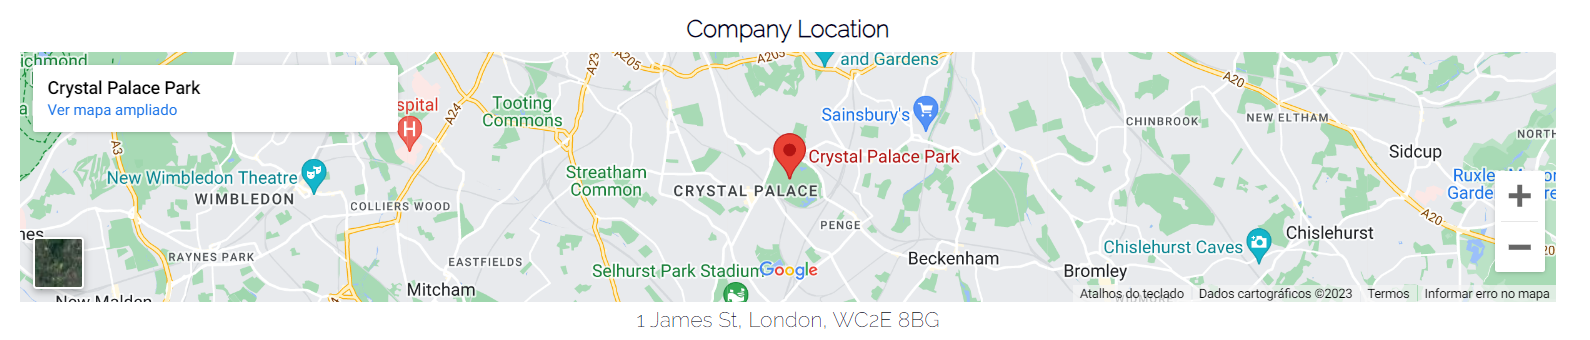
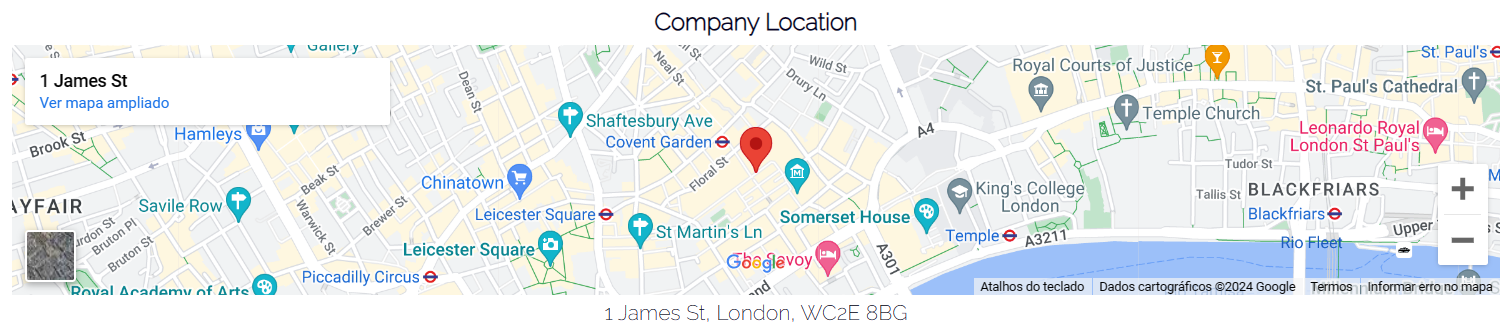
fix the map address into readme, index.html and signup.html

diff --git a/index.html b/index.html
@@ -144,7 +144,7 @@
         <h3>Company Location</h3>
         <figure>
           <iframe
-            src="https://www.google.com/maps/embed?pb=!1m18!1m12!1m3!1d19904.430267441054!2d-0.0855051!3d51.420438649999994!2m3!1f0!2f0!3f0!3m2!1i1024!2i768!4f13.1!3m3!1m2!1s0x48760142fbd08bf7%3A0x9a857645ae84c1c6!2sCrystal%20Palace%20Park!5e0!3m2!1spt-BR!2suk!4v1703627744298!5m2!1spt-BR!2suk"
+            src="https://www.google.com/maps/embed?pb=!1m18!1m12!1m3!1d2483.0448114842684!2d-0.12557452352978093!3d51.51239387181438!2m3!1f0!2f0!3f0!3m2!1i1024!2i768!4f13.1!3m3!1m2!1s0x487604cb815e79ef%3A0x8fcdf55a9605e800!2s1%20James%20St%2C%20London%20WC2E%208BG!5e0!3m2!1spt-BR!2suk!4v1704481963001!5m2!1spt-BR!2suk"
             width="250"
             height="200"
             style="border: 0"

diff --git a/signup.html b/signup.html
@@ -87,7 +87,7 @@
         <h2>Company Location</h2>
         <figure>
           <iframe
-            src="https://www.google.com/maps/embed?pb=!1m18!1m12!1m3!1d19904.430267441054!2d-0.0855051!3d51.420438649999994!2m3!1f0!2f0!3f0!3m2!1i1024!2i768!4f13.1!3m3!1m2!1s0x48760142fbd08bf7%3A0x9a857645ae84c1c6!2sCrystal%20Palace%20Park!5e0!3m2!1spt-BR!2suk!4v1703627744298!5m2!1spt-BR!2suk"
+            src="https://www.google.com/maps/embed?pb=!1m18!1m12!1m3!1d2483.0448114842684!2d-0.12557452352978093!3d51.51239387181438!2m3!1f0!2f0!3f0!3m2!1i1024!2i768!4f13.1!3m3!1m2!1s0x487604cb815e79ef%3A0x8fcdf55a9605e800!2s1%20James%20St%2C%20London%20WC2E%208BG!5e0!3m2!1spt-BR!2suk!4v1704481963001!5m2!1spt-BR!2suk"
             width="250"
             height="200"
             style="border: 0"

diff --git a/README.md b/README.md
@@ -364,3 +364,8 @@ To clone the repository, follow these steps:
 - The images used (logo, CEO's picture and 404error) were artificially created and are unique. The Ideogram website was the tool used for the generation of these artificial images.
 - All codes were created individually, privately and personally. I utilized the guidance and modules provided by the Code Institute with the intention of avoiding external interference, putting into practice all the content covered only by the course up to this point.
 - The project was supervised and guided by Mentor Mo Shami.
+
+
+
+
+
